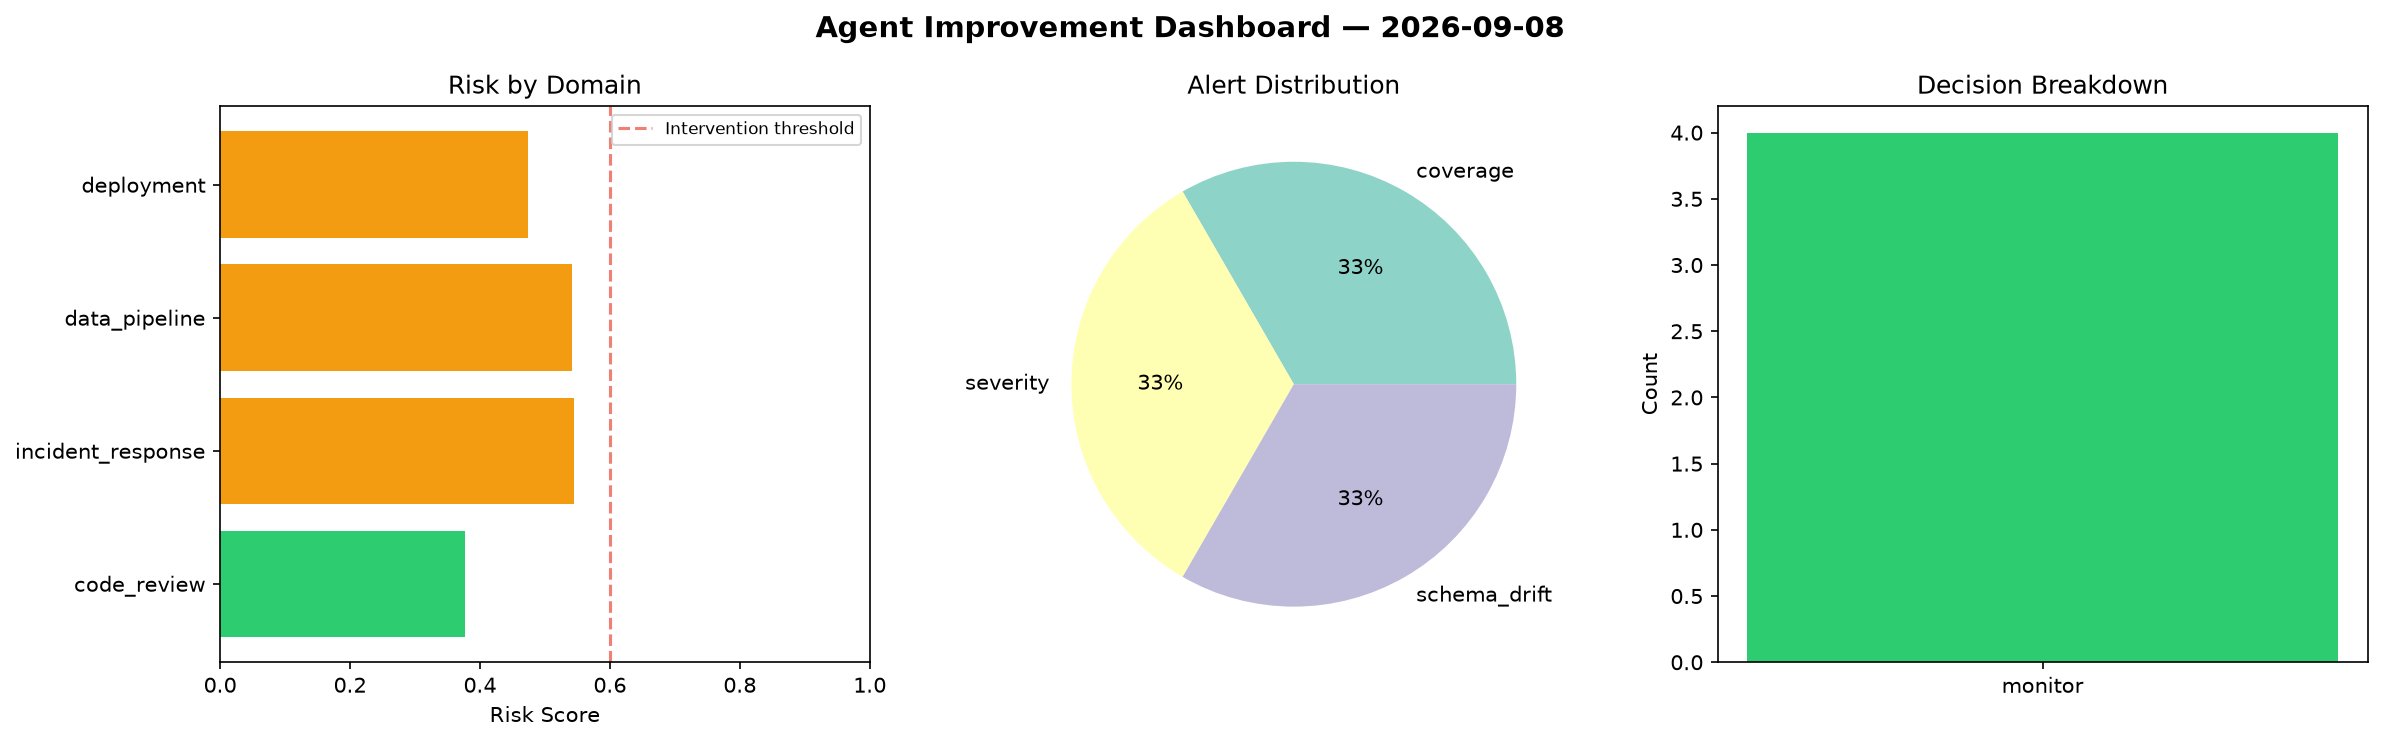
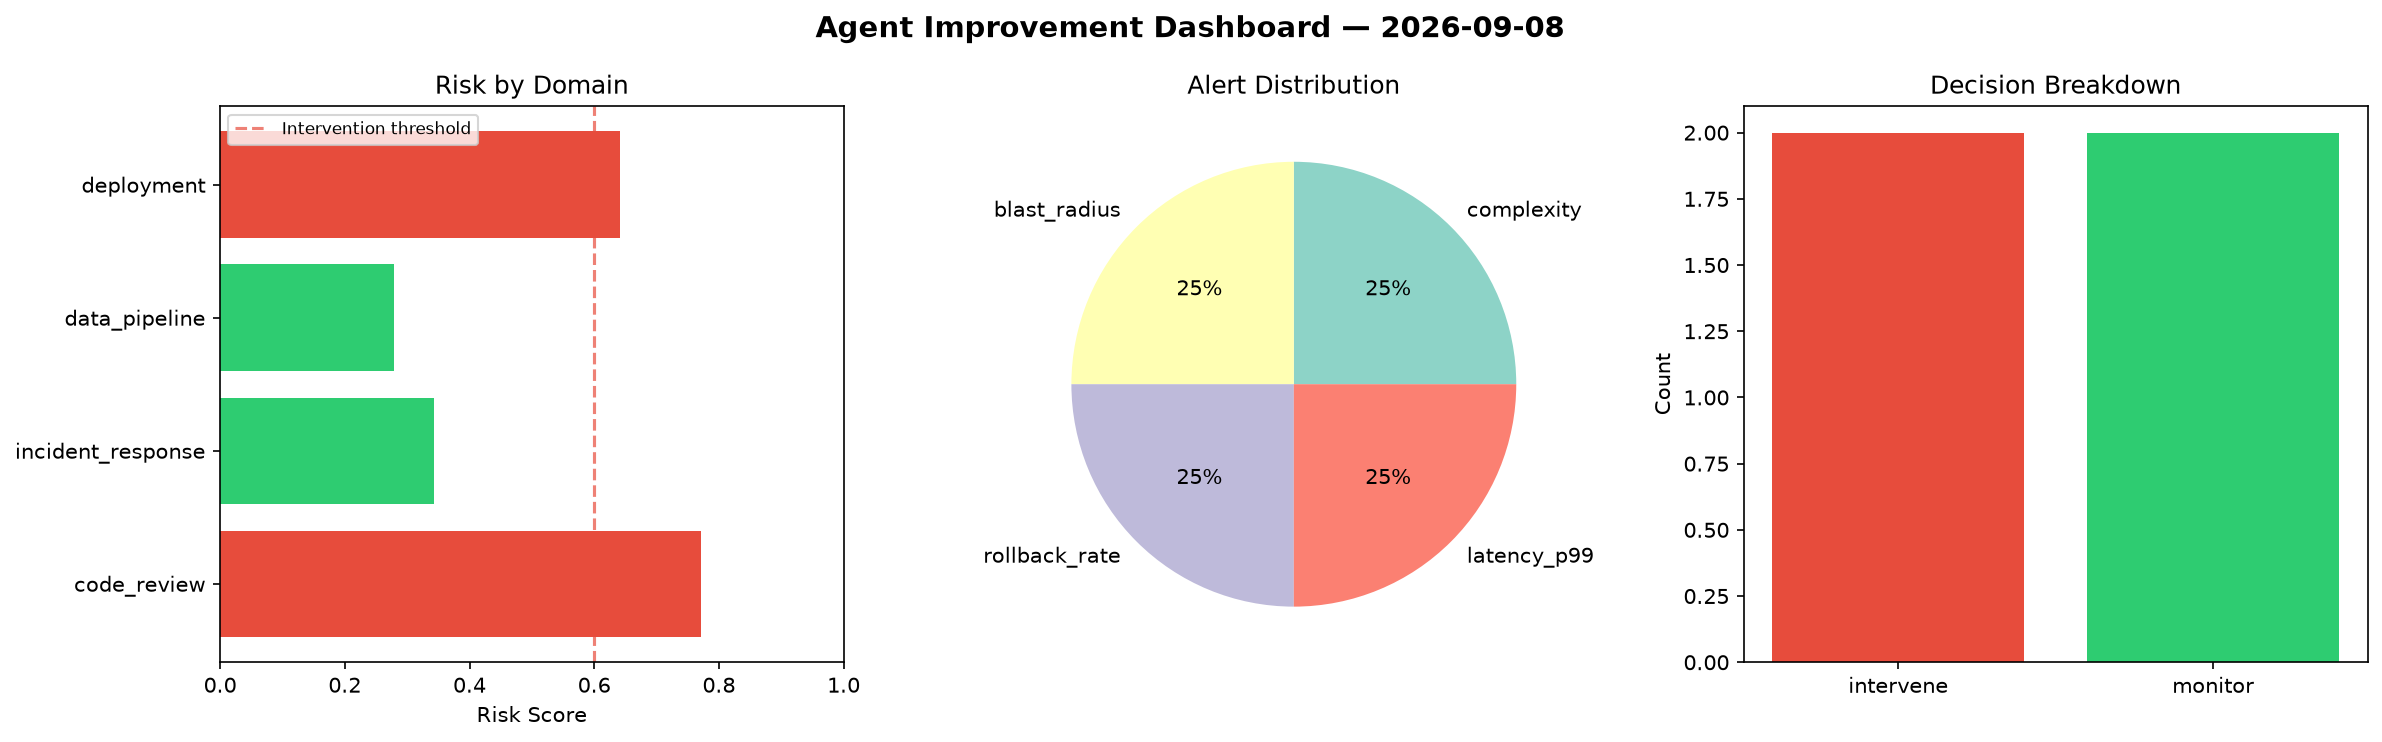
agent-improvement: daily cycle 2026-09-08T12:52

diff --git a/logs/2026-09-08.md b/logs/2026-09-08.md
@@ -1,6 +1,6 @@
 # Agent Improvement Report — 2026-09-08
 
-**Cycle ID:** `9f83825f` | **Avg Risk:** 0.4842 | **Interventions:** 0/4
+**Cycle ID:** `9d529094` | **Avg Risk:** 0.5088 | **Interventions:** 2/4
 
 ![Dashboard](2026-09-08_dashboard.png)
 
@@ -10,18 +10,18 @@
 
 | Domain | Risk Score | Decision | Alerts |
 |--------|-----------|----------|--------|
-| code_review | 0.3762 | monitor | coverage |
-| incident_response | 0.5448 | monitor | severity |
-| data_pipeline | 0.5417 | monitor | schema_drift |
-| deployment | 0.474 | monitor | none |
+| code_review | 0.7705 | intervene | complexity |
+| incident_response | 0.3436 | monitor | blast_radius |
+| data_pipeline | 0.2792 | monitor | none |
+| deployment | 0.642 | intervene | rollback_rate, latency_p99 |
 
 ## Delta vs Yesterday
 
 | Domain | Today | Yesterday | Change |
 |--------|-------|-----------|--------|
-| code_review | 0.3762 | 0.7964 | 📉 -52.8% |
-| incident_response | 0.5448 | 0.3178 | 📈 71.4% |
-| data_pipeline | 0.5417 | 0.1466 | 📈 269.5% |
-| deployment | 0.474 | 0.5521 | 📉 -14.1% |
+| code_review | 0.7705 | 0.7964 | 📉 -3.3% |
+| incident_response | 0.3436 | 0.3178 | 📈 8.1% |
+| data_pipeline | 0.2792 | 0.1466 | 📈 90.5% |
+| deployment | 0.642 | 0.5521 | 📈 16.3% |
 
-**Refinement:** `{'adjustment': 'tighten_thresholds', 'trend': 'degrading', 'window': 4}`
+**Refinement:** `{'adjustment': 'maintain', 'trend': 'improving', 'window': 4}`
